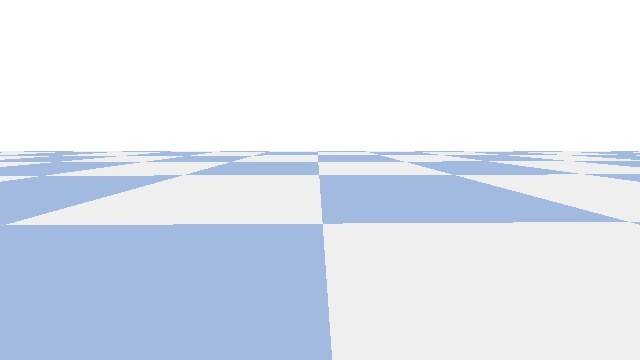
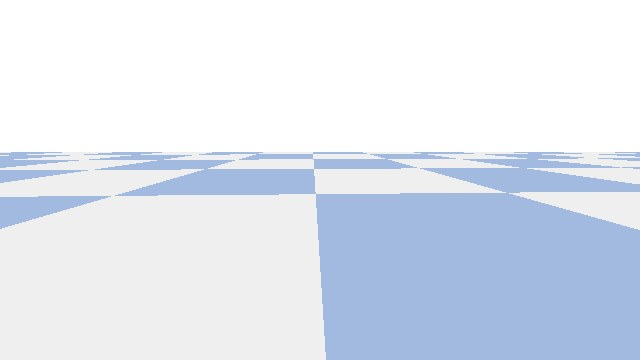
update project files

diff --git a/README.md b/README.md
@@ -10,28 +10,77 @@ We will be running all these files on our terminal so access your terminal and n
 
 From spot_bullet, please find the src folder, and please find spot_tester.py.
 
-Path = ________/spot_mini_mini/spot_bullet
+Path = ________/spot_mini_mini
 
 
 
 ## FOR WINDOWS USERS:
 
-py install 3.10
+For Windows, I have had the most success using Miniconda or Anaconda instead of a plain `venv`.
 
-### 1. Create environment
-py -3.10 -m venv spotmini-env
+https://www.anaconda.com/docs/getting-started/miniconda/install/overview
 
-### 2. Activate
-spotmini-env\Scripts\activate
+### 1. Install Python 3.10
+You can download the latest, but while running the next bit of code we will be creating an environment using python 3.10
+Make sure Python 3.10 is available through your Conda installation.
 
-### 3. Upgrade pip
-pip install --upgrade pip setuptools wheel
+https://www.python.org/downloads/
 
-### 4. Install dependencies
-pip install -r requirements.txt
+### 2. Open the correct terminal
+Open `Anaconda Prompt` or `Miniconda Prompt`.
 
-### 5. Run
-python src\spot_tester.py
+### 3. Go to the project folder
+```bat
+cd C:\Users\YOUR_USERNAME\Downloads\spot_mini_mini
+```
+
+### 4. Create the environment
+```bat
+conda create -n spotmini python=3.10 -y
+```
+
+### 5. Activate the environment
+```bat
+conda activate spotmini
+```
+
+### 6. Install the core dependencies with conda-forge
+These packages were more reliable through Conda on Windows than through pip.
+
+```bat
+conda install -c conda-forge numpy scipy matplotlib opencv pybullet -y
+```
+
+### 7. Upgrade pip tools
+```bat
+python -m pip install --upgrade pip wheel "setuptools<82"
+```
+
+### 8. Install the remaining Python dependencies
+```bat
+python -m pip install gym==0.26.2 gymnasium==0.29.1 stable-baselines3==2.3.2 filterpy==1.4.5
+```
+
+### 9. Verify PyBullet is working
+```bat
+python -c "import pybullet; print('pybullet works')"
+```
+
+### 10. Start the tester
+Run this from the main project folder:
+
+```bat
+python spot_bullet\src\spot_tester.py
+```
+
+### 11. Current known stopping point
+If your environment setup is successful, the next issue you may see is:
+
+```bat
+ImportError: cannot import name 'IndividualLegGUI' from 'spotmicro.util.gui'
+```
+
+That means the environment setup is complete enough to launch `spot_tester.py`, and the remaining issue is a project file mismatch rather than a missing dependency.
 
 
 
@@ -59,52 +108,52 @@ python src/spot_tester.py
 
 ## FOR MAC(APPLE Silicon) USERS:
 
-### 1. Create environment
+For Apple Silicon, we also had the most success using Conda instead of a plain `venv`.
+
+### 1. Install Python 3.10
+Make sure Python 3.10 is available through your Conda installation.
+
+### 2. Open the correct terminal
+Open your normal macOS Terminal with Conda initialized.
+
+### 3. Go to the project folder
+```bash
+cd /path/to/spot_mini_mini
+```
+
+### 4. Create the environment
+```bash
 conda create -n spotmini python=3.10 -y
+```
 
-### 2. Activate
+### 5. Activate the environment
+```bash
 conda activate spotmini
+```
 
-### 3. Install core dependencies
+### 6. Install the core dependencies with conda-forge
+These packages were more reliable through Conda than through pip on Apple Silicon.
+
+```bash
 conda install -c conda-forge numpy scipy matplotlib opencv pybullet -y
+```
 
-### 4. Upgrade pip
-pip install --upgrade pip wheel
+### 7. Upgrade pip tools
+```bash
+python -m pip install --upgrade pip wheel "setuptools<82"
+```
 
-### 5. Pin setuptools because pkg_resources was removed in setuptools 82+
-pip install "setuptools<82"
+### 8. Install the remaining Python dependencies
+```bash
+python -m pip install gym==0.26.2 gymnasium==0.29.1 stable-baselines3==2.3.2 filterpy==1.4.5
+```
 
-### 6. Install secondary dependencies
-pip install gym==0.26.2 gymnasium==0.29.1 stable-baselines3==2.3.2 filterpy==1.4.5
+### 9. Start the tester
+Run this from the main project folder:
 
-### 7. Install remaining dependencies
-pip install -r requirements.txt
-
-### 8. Run
-python spot_tester.py
-
-
-
-
-
-# Important note for the newer commands
-
-The older `spot_tester.py` commands above are run from inside:
-
-Path = ________/spot_mini_mini/spot_bullet/src
-
-The newer dashboard, manual PyBullet app, training, playback, and comparison commands below should be run from the main project folder:
-
-Path = ________/spot_mini_mini
-
-If you are in the main project folder and need to install the requirements file, use:
-
-python -m pip install -r spot_bullet/src/requirements.txt
-
-If you are already inside spot_bullet/src, use:
-
-pip install -r requirements.txt
-
+```bash
+python spot_bullet/src/spot_tester.py
+```
 
 
 
@@ -129,13 +178,18 @@ Before running the manual app, install the app dependencies in the same environm
 
 python -m pip install streamlit pywebview
 
-## Run on Mac:
 
-python3 "spot_bullet/Sim Display/launch_manual_app.py"
 
 ## Run on Windows:
 
-python "spot_bullet\Sim Display\launch_manual_app.py"
+### python "spot_bullet\Sim Display\launch_manual_app.py"
+
+
+## Run on Mac:
+
+### python3 "spot_bullet/Sim Display/launch_manual_app.py"
+
+
 
 ## What to click in the app:
 
@@ -150,7 +204,6 @@ For Test PPO Model, choose the trained run from the dropdown, choose best or fin
 If the worker is still using an older version, click Force Restart Manual Worker.
 
 Manual trot currently uses fixed tuning values while we are still improving the gait. The current values are forward step 0.050, backward step 0.040, turn assist 0.010, turn rate 0.90, strafe step 0.030, strafe angle 0.80, step velocity 0.54, and curve height 0.040.
-
 
 
 
@@ -170,6 +223,38 @@ python3 "spot_bullet/Sim Display/launch_dashboard.py"
 python "spot_bullet\Sim Display\launch_dashboard.py"
 
 If pywebview is installed correctly, the dashboard opens in a local desktop window. If pywebview is missing, the normal dashboard can open in a browser.
+
+
+
+
+
+# Important note for the newer commands
+
+The updated Windows and Apple Silicon `spot_tester.py` commands above are run from the main project folder:
+
+Path = ________/spot_mini_mini
+
+If you prefer to run `spot_tester.py` from inside `spot_bullet/src`, use:
+
+```bash
+python spot_tester.py
+```
+
+The newer dashboard, manual PyBullet app, training, playback, and comparison commands below should be run from the main project folder:
+
+Path = ________/spot_mini_mini
+
+If you are in the main project folder and need to install the requirements file, use:
+
+```bash
+python -m pip install -r spot_bullet/src/requirements.txt
+```
+
+If you are already inside spot_bullet/src, use:
+
+```bash
+pip install -r requirements.txt
+```
 
 
 
